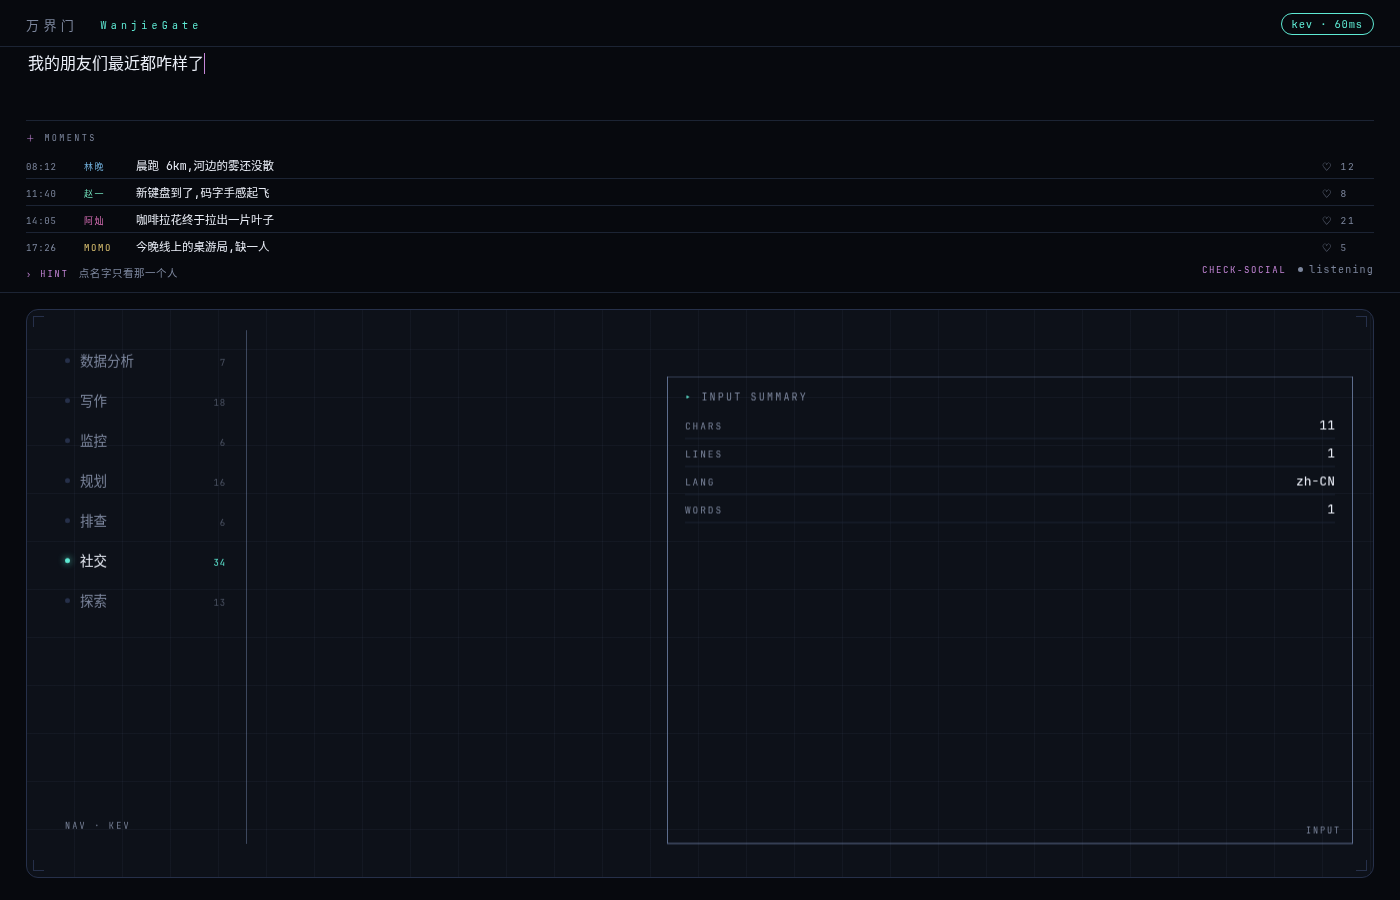
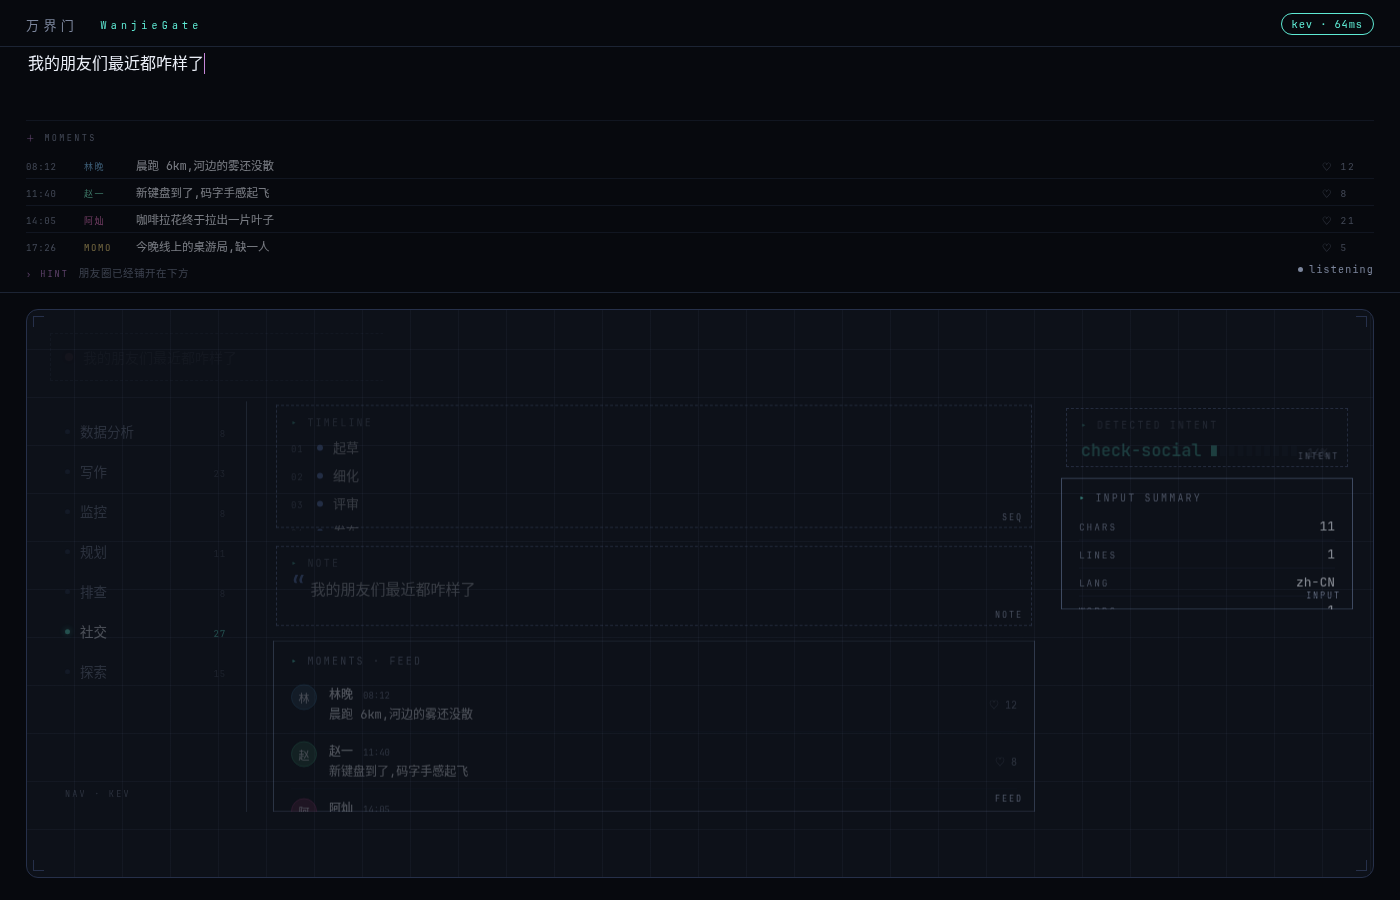
自然高版式 + 社交 feed 卡 + 口语题面校准
- stack() 从铺满列高改为自然高(minH*66)顶对齐堆叠,超出才压缩——
  小卡不再被撑成比例失调的大块,留白归位
- 新组件 feed-card:朋友圈进主列(头像/正文/时间/赞),社交语境有主内容
- 题面校准:check-social 扩写口语场景("大家在干啥"类),plan-work/
  tasks 收窄为自己列清单;模糊的短句落 explore(诚实未定)而非误判
- 自测新增:社交断言 feed 行数;模糊句断言所有非导航卡自然高

Generated with [Devin](https://devin.ai)

diff --git a/static/app.js b/static/app.js
@@ -253,13 +253,17 @@ function pack() {
   for (const c of bots) { by -= STRIP_H; c.rect = {x: PAD, y: by, w: Wi, h: STRIP_H}; by -= GAP; }
   const midY = y, midH = Math.max(0, by - midY);   // 条带循环里已含间隔
 
-  // 一列区域内按 minH 权重铺满,组内 12px 间隔,最后一个吃掉舍入余量
+  // 栏内卡片给"自然高"(minH*66)顶对齐堆叠,超出列高才按比例压缩;
+  // 剩余高度留白——卡片自己找位置,不被撑成比例失调的大块
+  const NAT = 66;
   const stack = (list, x0, w, y0, h) => {
-    const tot = list.reduce((s, c) => s + (manifest.components[c.id].minH || 1), 0);
+    const hs = list.map(c => Math.max(52, (manifest.components[c.id].minH || 1) * NAT));
+    const gaps = GAP_IN * (list.length - 1);
+    const need = hs.reduce((s, v) => s + v, 0) + gaps;
+    const k = need > h ? (h - gaps) / Math.max(1, need - gaps) : 1;
     let cy = y0;
     list.forEach((c, i) => {
-      const ch = i === list.length - 1 ? y0 + h - Math.round(cy)
-        : Math.round((h - GAP_IN * (list.length - 1)) * (manifest.components[c.id].minH || 1) / tot);
+      const ch = Math.round(hs[i] * k);
       c.rect = {x: x0, y: Math.round(cy), w, h: Math.max(0, ch)};
       cy += ch + GAP_IN;
     });
@@ -274,7 +278,7 @@ function pack() {
   for (const c of navs) c.el.classList.remove("flat");
 
   let x = PAD;
-  if (navs.length) { stack(navs, x, NAV_W, midY, midH); x += NAV_W + COL_GAP; }
+  if (navs.length) { navs[0].rect = {x, y: midY, w: NAV_W, h: midH}; x += NAV_W + COL_GAP; }
   if (!mains.length) { mains = sides; sides = []; } // 主列空时侧列内容进主列
   const sideW = sides.length ? SIDE_W : 0;
   const mainW = Wi - (x - PAD) - sideW - (sides.length ? COL_GAP : 0);
@@ -430,6 +434,14 @@ function renderCard(id) {
     case "note-card":
       el.innerHTML = chrome(id, "note") + `<div class="c-title">note</div><div class="note">${esc(lastLine || first || "…")}</div>`;
       break;
+    case "feed-card": {
+      const items = manifest.attachments?.moments?.items || [];
+      el.innerHTML = chrome(id, "feed") + `<div class="c-title">moments · feed</div>` +
+        items.map(m => `<div class="feed-row"><i class="av" style="--h:${m.hue}">${esc(m.who[0])}</i>
+          <div class="fbody"><div class="fhead"><b>${esc(m.who)}</b><i>${m.time}</i></div>
+          <div class="ftext">${esc(m.text)}</div></div><b class="fmeta">${m.meta}</b></div>`).join("");
+      break;
+    }
     case "hero-stat": {
       const d = ds(c.bound);
       el.innerHTML = chrome(id, c.bound) + `<div class="c-title">${esc(d.title)}</div>
@@ -457,6 +469,7 @@ const MOCK_KW = {
   "hero-stat": /hero|大字|总数|一共/i,
   "progress-card": /进度|progress|完成度/i,
   "summary-card": /总结|summary|统计/i,
+  "feed-card": /朋友|大家|社交|feed|moments|朋友圈/i,
   "intent-chip": /./,
 };
 async function mockDecide() {

diff --git a/static/styles.css b/static/styles.css
@@ -94,6 +94,19 @@ header {
 .ni.on i { background: var(--cm, var(--accent)); box-shadow: 0 0 7px var(--cm, var(--accent)); }
 .ni.on b { color: var(--cm, var(--accent)); opacity: 1; }
 .rail-foot { position: absolute; bottom: 12px; left: 18px; font-size: 8.5px; letter-spacing: .26em; text-transform: uppercase; color: var(--dim); }
+
+/* ---------- 朋友圈 feed(主列) ---------- */
+.feed-row { display: flex; gap: 12px; align-items: flex-start; padding: 9px 0; border-bottom: 1px solid var(--line); }
+.feed-row:last-child { border-bottom: none; }
+.av { width: 26px; height: 26px; border-radius: 50%; flex: none; display: flex; align-items: center; justify-content: center;
+  font-style: normal; font-size: 11px; color: rgba(235,240,250,.9);
+  background: hsl(var(--h), 35%, 22%); border: 1px solid hsl(var(--h), 45%, 34%); }
+.fbody { flex: 1; min-width: 0; }
+.fhead { display: flex; align-items: baseline; gap: 10px; }
+.fhead b { font-weight: 500; font-size: 12px; }
+.fhead i { font-style: normal; font-size: 9px; color: var(--dim); }
+.ftext { font-size: 12px; color: var(--text); margin-top: 2px; }
+.fmeta { font-weight: 400; font-size: 10px; color: var(--dim); align-self: center; }
 .card[data-id="nav-rail"].flat { padding: 6px 0; }
 .card[data-id="nav-rail"].flat .nav-list { flex-direction: row; overflow: hidden; }
 .card[data-id="nav-rail"].flat .ni { padding: 6px 12px; font-size: 11.5px; }

diff --git a/tools/selftest.py b/tools/selftest.py
@@ -107,10 +107,22 @@ with sync_playwright() as pw:
     cards, _ = state(page, "7-social")
     attach_head = page.eval_on_selector("#attach .a-head", "e => e.textContent") if page.locator("#attach .a-head").count() else None
     n_mom = page.locator("#attach .a-row b.who").count()
+    n_feed = page.locator('.card[data-id="feed-card"] .feed-row').count()
     cmode = page.get_attribute("#composer", "data-cmode")
-    print(f"  attach={attach_head} moments={n_mom} cmode={cmode}")
+    print(f"  attach={attach_head} moments={n_mom} feed_rows={n_feed} cmode={cmode}")
     assert attach_head == "moments" and n_mom >= 3, f"社交语境应召出朋友圈(got head={attach_head}, n={n_mom})"
     assert cmode == "check-social", f"社交语境输入框应变形为 check-social(got {cmode})"
+    assert n_feed >= 3, f"主列应有朋友圈 feed(got {n_feed} 行)"
+
+    # 7) 口语化模糊输入 → 不判错,幽灵态候场 + 版式整齐
+    page.fill("#input", "大家在干啥?")
+    page.wait_for_timeout(2200)
+    cards, _ = state(page, "8-ambiguous")
+    boxes = {c["id"]: page.locator(f'.card[data-id="{c["id"]}"]').bounding_box() for c in cards if c["op"] > 0.05}
+    heights = {k: round(b["height"]) for k, b in boxes.items()}
+    print(f"  ambiguous heights={heights}")
+    assert all(h < 320 for k, h in heights.items() if k != "nav-rail"), \
+        f"非导航卡应是自然高(<320),不被撑大: {heights}"
 
     browser.close()
 
